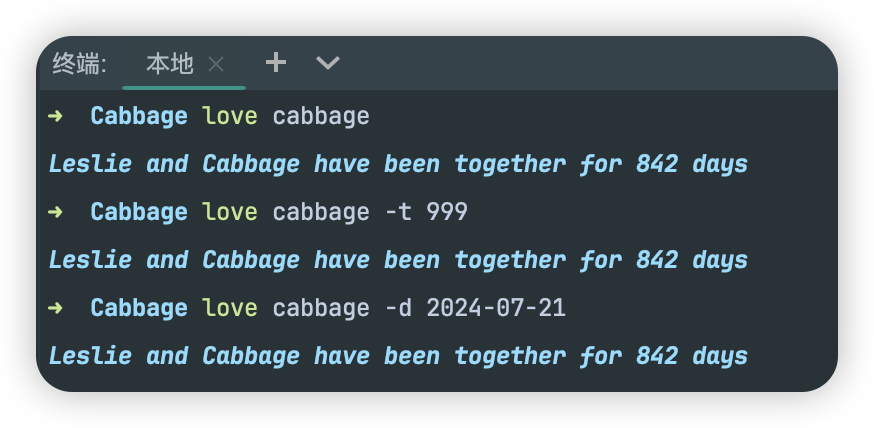
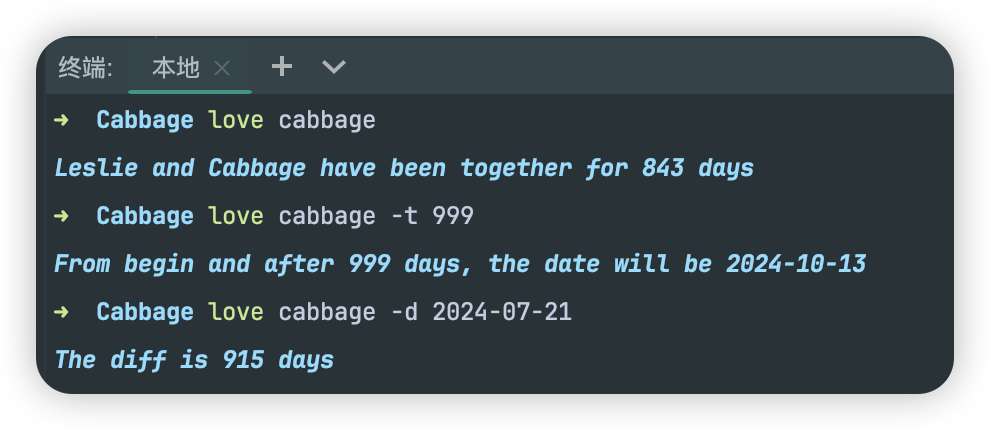
fix(blog): npm

diff --git a/docs/blogs/如何发布一个npm包.md b/docs/blogs/如何发布一个npm包.md
@@ -274,7 +274,7 @@ const cabbage = (program) => {
     .command('cabbage')
     .description('Love timer')
     .option('-t, --target <days>', 'Given number of days to calculate the date from start date')
-    .action(handleCabbage)
+    .action(() => handleCabbage(program.opts()))
 }
 
 module.exports = cabbage
@@ -325,7 +325,7 @@ const cabbage = (program) => {
     .description('Love timer')
     .option('-d, --diff <date>', 'Counting day difference for the given date')
     .option('-t, --target <days>', 'Given number of days to calculate the date from start date')
-    .action(handleCabbage)
+    .action(() => handleCabbage(program.opts()))
 }
 
 module.exports = cabbage
